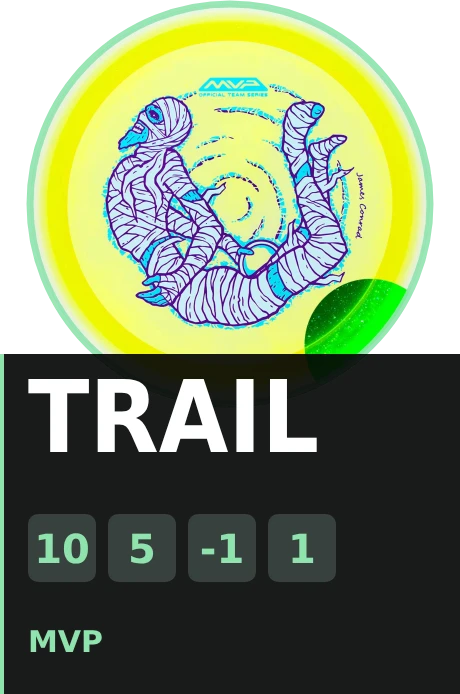
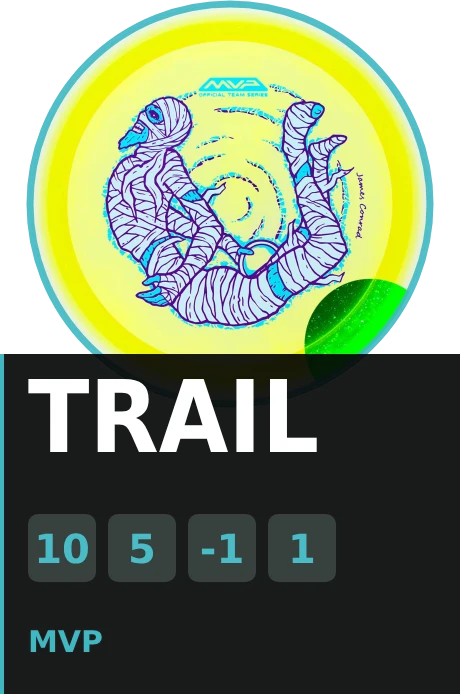
thro shop pages: Mid-Century Retro (warm paper, one signal colour per shop, Jost, atomic starburst), cards re-rendered with the shop's accent
Sam (01:17): tired of forest-green dark mode; Mid-Century Retro exists to stand out from the one
style world. IceBerg TV teal, Premium mustard, Rare burnt orange.

Claude-Session: https://claude.ai/code/session_018iN3mk7331DcyDcujukBDY

diff --git a/checkpoint/sources/pxcube/experiences/thro-shops/page.css b/checkpoint/sources/pxcube/experiences/thro-shops/page.css
@@ -1,33 +1,42 @@
-:root{--ground:#0d120e;--ink:#eef3ea;--muted:#9fae9a;--line:#253127;--accent:#c8f49d}
+/* Mid-Century Retro: warm paper, ink, one bold signal colour per shop, geometric type, atomic starburst. */
+:root{--paper:#f3e8d2;--paper2:#ead9b8;--ink:#2b2420;--muted:#6f6253;--rule:#cdb995;--signal:#e3a62f;--signal2:#1f6f68;--deep:#2b2420}
+body.icebergtv{--signal:#3fb8c4;--signal2:#c4502b}
+body.premiumdg{--signal:#e3a62f;--signal2:#1f6f68}
+body.raredg{--signal:#e0632e;--signal2:#2f6f8f}
 *{box-sizing:border-box}
-body{margin:0;background:var(--ground);color:var(--ink);font:15px/1.5 system-ui,-apple-system,"Segoe UI",sans-serif}
+body{margin:0;background:var(--paper);color:var(--ink);font:400 16px/1.5 "Jost",system-ui,sans-serif}
 a{color:inherit}
-.top{padding:clamp(28px,6vw,64px) clamp(16px,5vw,64px) 8px;max-width:1280px;margin:0 auto}
-.eyebrow{margin:0;color:var(--accent);font:700 13px/1 system-ui;letter-spacing:.08em}
-h1{margin:.2em 0 .1em;font:800 clamp(34px,6vw,64px)/1 system-ui;letter-spacing:-.03em}
-.sub{margin:0;color:var(--muted);font-size:16px}
-.sub a{color:var(--ink)}
-main{max-width:1280px;margin:0 auto;padding:8px clamp(16px,5vw,64px) 32px}
-section{padding:28px 0;border-top:1px solid var(--line)}
+.top{position:relative;overflow:hidden;background:var(--signal);color:var(--deep);padding:clamp(28px,6vw,72px) clamp(16px,5vw,64px) clamp(28px,5vw,56px)}
+.top .inner{max-width:1280px;margin:0 auto;position:relative;z-index:1}
+.top svg.burst{position:absolute;right:clamp(-120px,-4vw,-30px);top:50%;transform:translateY(-50%);width:clamp(220px,34vw,460px);height:auto;z-index:0;opacity:.95}
+.eyebrow{margin:0;font:600 13px/1 "Jost",sans-serif;letter-spacing:.24em;text-transform:uppercase}
+h1{margin:.18em 0 .12em;font:800 clamp(44px,8.5vw,108px)/.92 "Jost",sans-serif;letter-spacing:-.035em}
+.sub{margin:0;max-width:34ch;font-size:clamp(16px,1.6vw,19px)}
+.sub a{font-weight:600}
+main{max-width:1280px;margin:0 auto;padding:12px clamp(16px,5vw,64px) 32px}
+section{display:grid;grid-template-columns:minmax(0,280px) minmax(0,1fr);gap:20px 40px;padding:36px 0;border-top:2px solid var(--ink)}
 section:first-child{border-top:0}
-section header{display:grid;gap:4px;margin-bottom:16px}
-.kind{color:var(--muted);font-size:13px}
-.vt{font:750 clamp(19px,2.4vw,26px)/1.2 system-ui;text-decoration:none;letter-spacing:-.01em}
-.vt:hover{text-decoration:underline}
-.bag{margin:0;color:var(--muted)}
-.grid{list-style:none;margin:0;padding:0;display:grid;grid-template-columns:repeat(auto-fill,minmax(min(46%,190px),1fr));gap:18px 14px}
+section header{display:grid;gap:8px;align-content:start}
+.no{font:800 15px/1 "Jost";letter-spacing:.18em;color:var(--signal2)}
+.kind{color:var(--muted);font-size:14px}
+.vt{font:700 clamp(21px,2.2vw,27px)/1.15 "Jost";text-decoration:none;letter-spacing:-.01em}
+.vt:hover{text-decoration:underline;text-decoration-color:var(--signal);text-decoration-thickness:3px}
+.bag{margin:4px 0 0;font-size:15px}
+.bag b{font-weight:600}
+.grid{list-style:none;margin:0;padding:0;display:grid;grid-template-columns:repeat(auto-fill,minmax(min(46%,176px),1fr));gap:22px 16px}
 .grid li{display:grid;gap:6px;align-content:start}
 .card{display:grid;gap:8px;text-decoration:none}
-.card img{display:block;width:100%;height:auto;border-radius:6px;transition:transform .15s}
-.card:hover img{transform:translateY(-3px)}
-.what{font-size:14px;line-height:1.3}
+.card img{display:block;width:100%;height:auto;filter:drop-shadow(5px 5px 0 var(--paper2));transition:transform .15s,filter .15s}
+.card:hover img{transform:translate(-2px,-2px);filter:drop-shadow(7px 7px 0 var(--signal))}
+.what{font-size:14px;line-height:1.3;font-weight:500}
 .card:hover .what{text-decoration:underline}
-.what em{color:#ffb38a;font-style:normal;font-size:12px;margin-left:4px}
-.how{color:var(--muted);font-size:12.5px}
-.how a{color:var(--accent);text-decoration:none}
-.photo,.missing{aspect-ratio:460/694;border-radius:6px;background:#161d18;display:grid;place-items:center;align-content:center;gap:10px;padding:14px;text-align:center}
-.photo img{max-width:100%;max-height:70%;object-fit:contain;border-radius:4px}
-.photo span,.missing span{color:var(--muted);font-size:12.5px}
-.missing b{font:800 34px system-ui}
-footer{max-width:1280px;margin:0 auto;padding:20px clamp(16px,5vw,64px) 40px;color:var(--muted);font-size:13px;border-top:1px solid var(--line)}
-footer a{color:var(--ink)}
+.what em{display:inline-block;margin-left:4px;padding:0 6px;background:var(--ink);color:var(--paper);font:600 11px/1.6 "Jost";letter-spacing:.06em;text-transform:uppercase;font-style:normal;border-radius:2px}
+.how{color:var(--muted);font-size:13px}
+.how a{color:var(--signal2);font-weight:600;text-decoration:none}
+.photo,.missing{aspect-ratio:460/694;border-radius:3px;background:var(--paper2);display:grid;place-items:center;align-content:center;gap:10px;padding:14px;text-align:center}
+.photo img{max-width:100%;max-height:70%;object-fit:contain;box-shadow:none;border-radius:2px}
+.photo span,.missing span{color:var(--muted);font-size:13px}
+.missing b{font:800 40px "Jost"}
+footer{max-width:1280px;margin:0 auto;padding:22px clamp(16px,5vw,64px) 44px;color:var(--muted);font-size:13.5px;border-top:2px solid var(--ink)}
+footer a{color:var(--ink);font-weight:600}
+@media (max-width:760px){section{grid-template-columns:1fr}.top svg.burst{width:150px;top:-34px;right:-44px;transform:none}.top .inner{padding-top:72px}}
